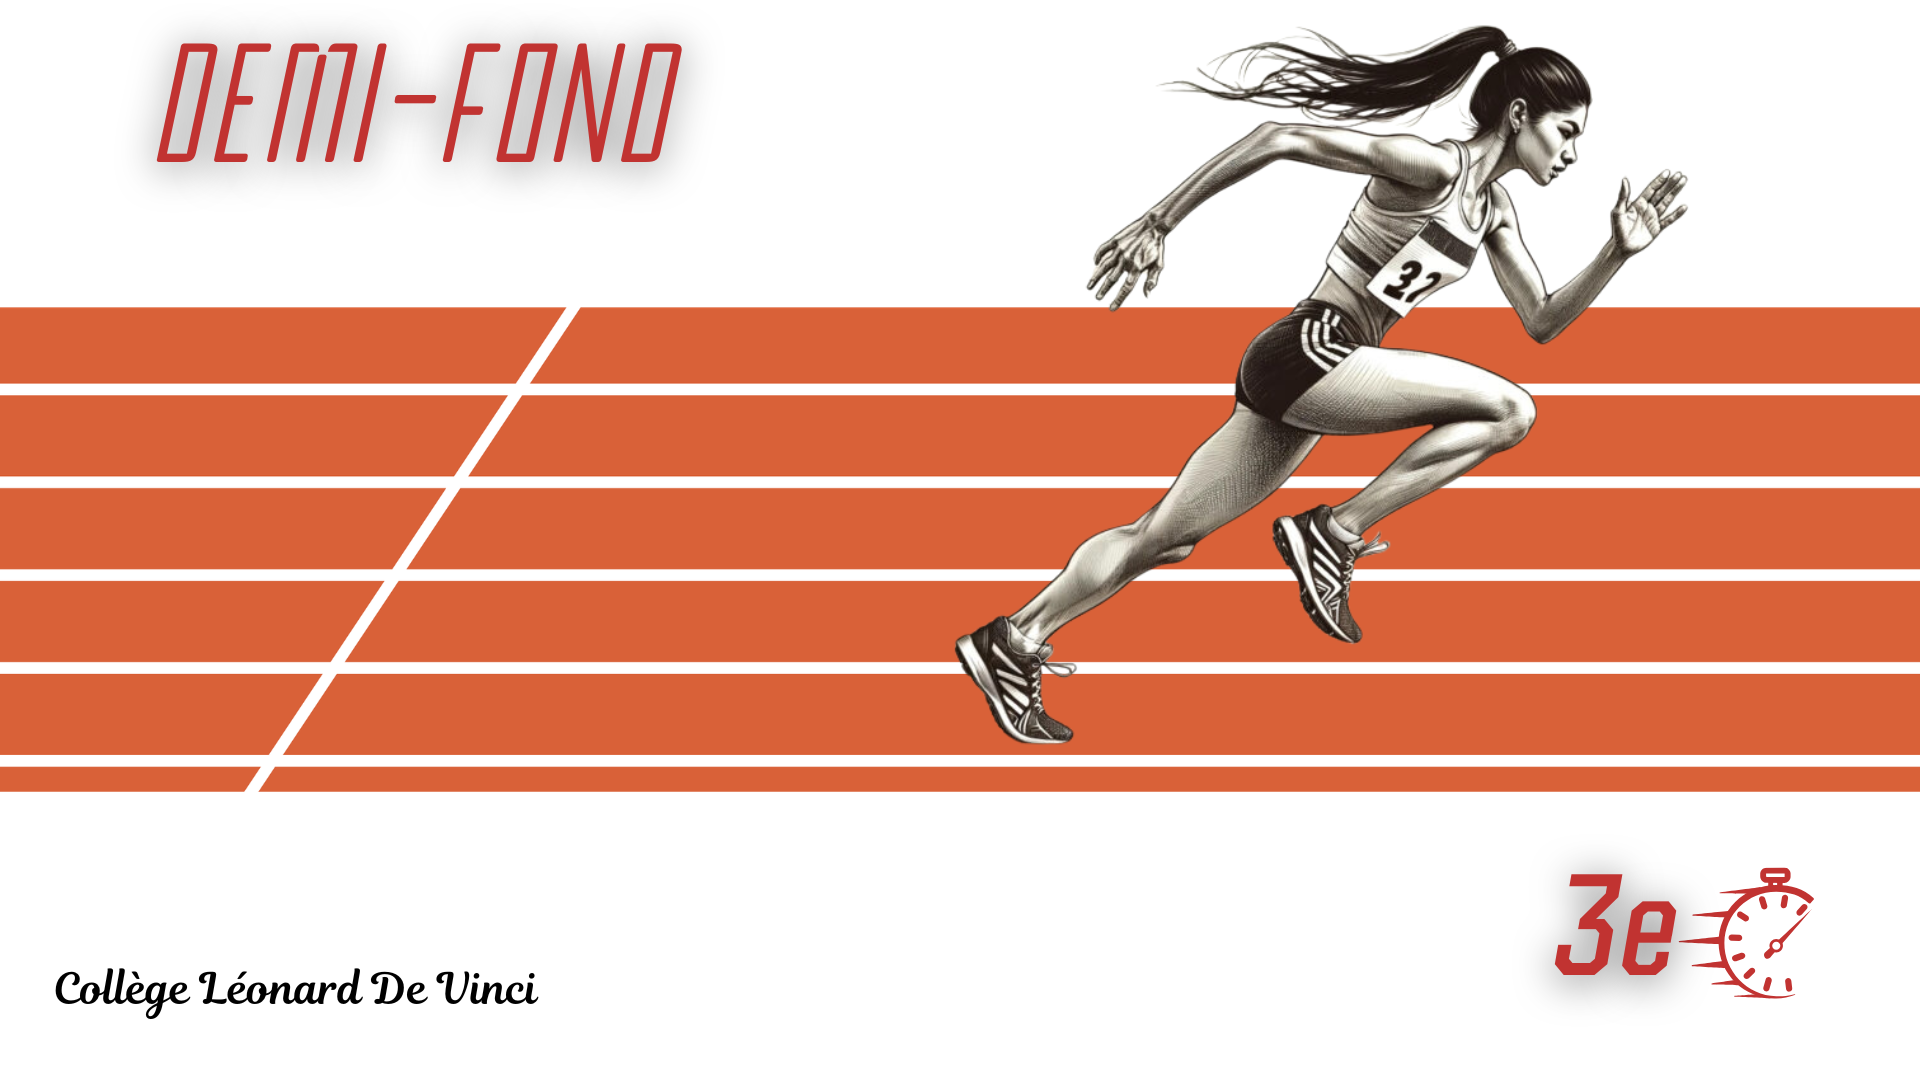
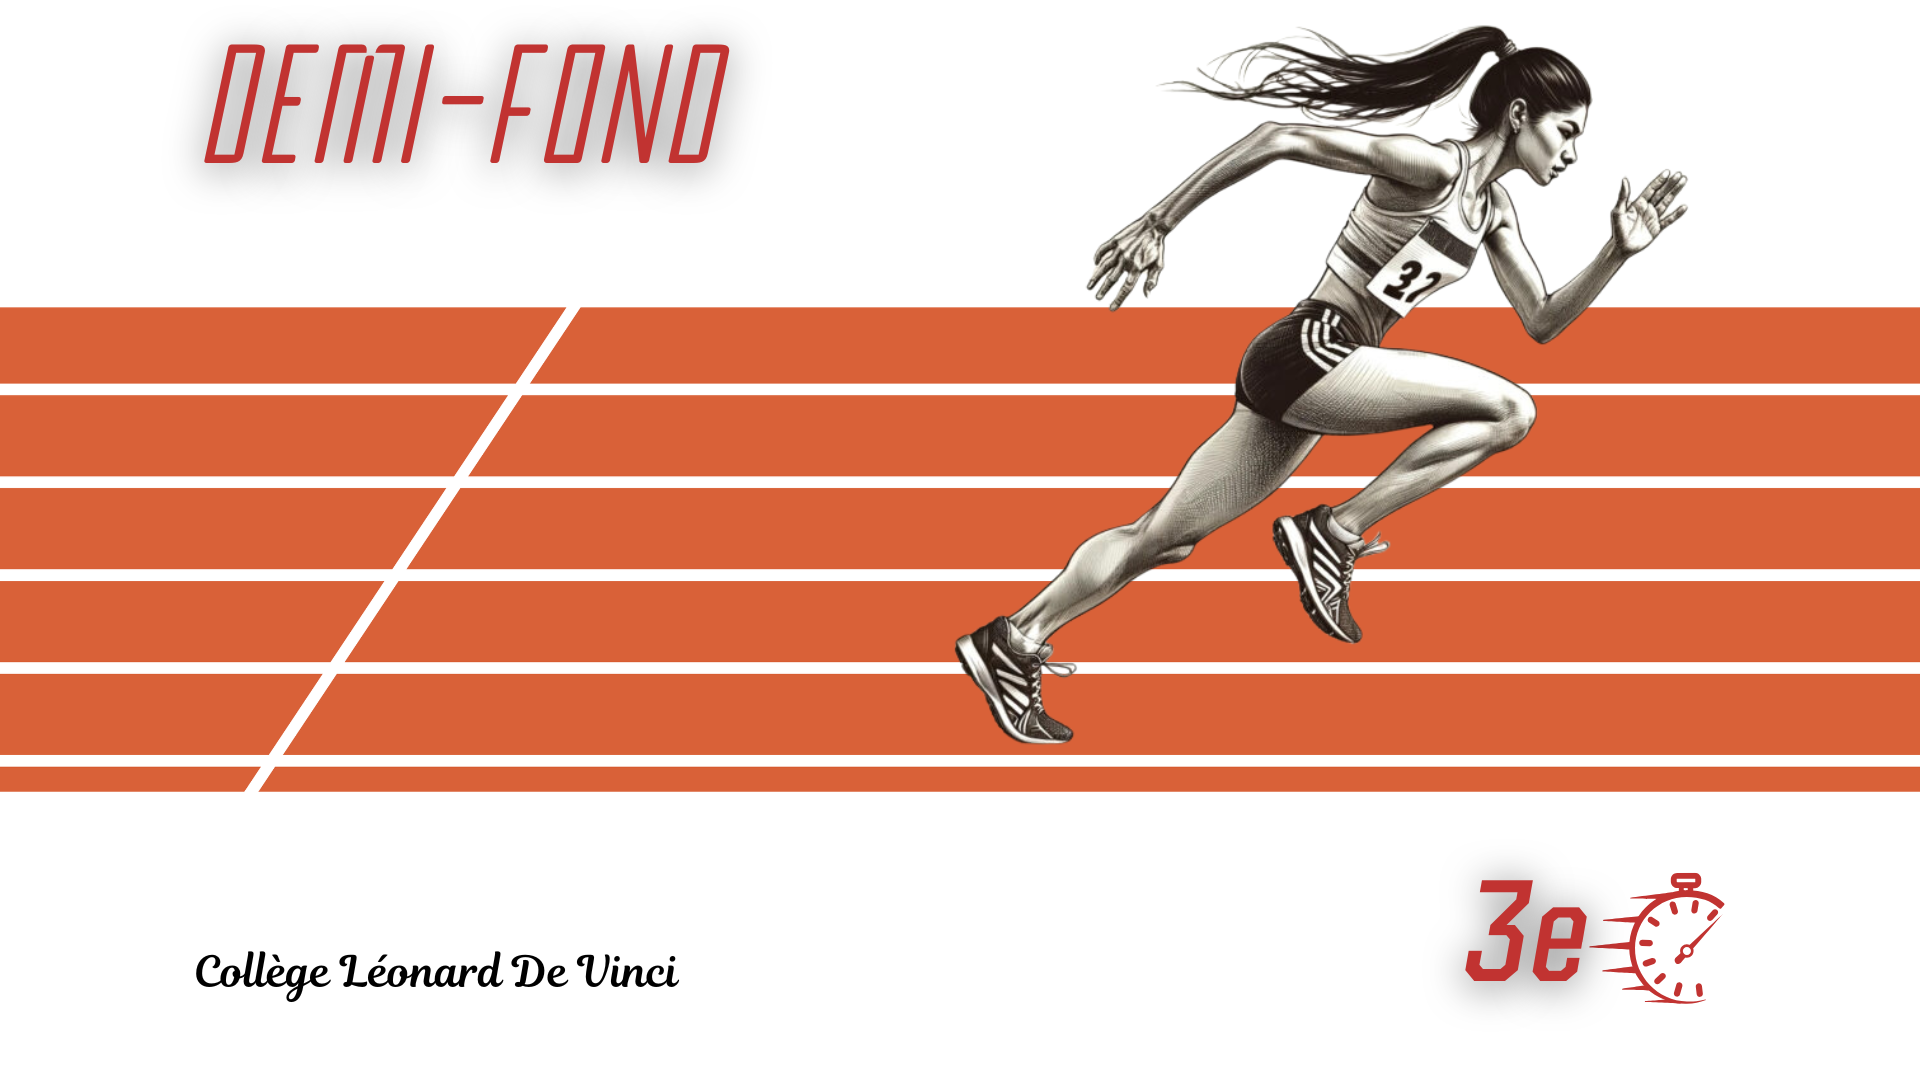
MaJ1.8

Changed region(s): [[0.0625, 0.0306, 0.4062, 0.1528], [0.75, 0.7944, 0.9688, 0.9472], [0.0312, 0.8861, 0.375, 0.9472]]

diff --git a/index.html b/index.html
@@ -8,6 +8,11 @@
     <title>Suivi Demi-Fond</title>
     <meta name="apple-mobile-web-app-capable" content="yes">
     <meta name="apple-mobile-web-app-status-bar-style" content="black-translucent">
+    <meta name="apple-mobile-web-app-title" content="Demi-Fond 3e">
+    <link rel="apple-touch-icon" href="image/icone.png">
+    <link rel="apple-touch-icon" sizes="180x180" href="image/icone.png">
+    <link rel="icon" type="image/png" href="image/icone.png">
+    <link rel="manifest" href="manifest.json">
     <link rel="preconnect" href="https://fonts.googleapis.com">
     <link rel="preconnect" href="https://fonts.gstatic.com" crossorigin>
     <link
@@ -56,12 +61,18 @@
             z-index: -1;
             transition: filter 0.3s ease, transform 0.3s ease;
             pointer-events: none;
+            display: none;
         }
 
         body.bg-blurred #app-bg,
         body:has(.view:not(#view-accueil).active) #app-bg {
             filter: blur(12px) brightness(0.95);
             transform: scale(1.06);
+            display: block;
+        }
+
+        body:has(#view-accueil.active) {
+            background-color: #FFFFFF;
         }
 
         /* Vues de l'application */
@@ -376,88 +387,97 @@
 
         #view-accueil {
             background: transparent;
+            width: 100%;
             min-height: 100vh;
-            margin: -20px;
-            padding: 70px 20px 20px 60px;
-            box-sizing: border-box;
-            overflow-x: hidden;
-            max-width: none;
-        }
-
-        #view-accueil.active {
+            margin: 0;
+            padding: 0;
             display: flex;
-            flex-direction: column;
+            align-items: center;
             justify-content: center;
-            align-items: flex-start;
+            overflow: hidden;
+            max-width: none;
+            position: relative;
         }
 
-        #view-accueil .btn-with-icon {
-            background: rgba(255, 255, 255, 0.72);
+        .home-stage {
+            position: relative;
+            width: 100vw;
+            height: calc(100vw * 9 / 16);
+            max-height: 100vh;
+            max-width: calc(100vh * 16 / 9);
+            aspect-ratio: 16 / 9;
+            background: url('image/fd3.png') no-repeat center center / contain;
+            container-type: size;
+            margin: auto;
+            box-sizing: border-box;
+        }
+
+        #view-accueil .home-btn {
+            position: absolute;
+            width: 27cqw;
+            height: 10.5cqh;
+            padding: 0 2cqw;
+            margin: 0;
+            display: flex;
+            align-items: center;
+            justify-content: center;
+            gap: 1cqw;
+            background: rgba(255, 255, 255, 0.76);
             backdrop-filter: blur(16px);
             -webkit-backdrop-filter: blur(16px);
             color: #000000;
-            border-radius: 18px;
-            padding: 18px 28px;
-            font-size: 18px;
+            border-radius: 1.4cqw;
+            font-size: clamp(11px, 1.32cqw, 19px);
             font-weight: 800;
-            width: 88%;
-            max-width: 410px;
-            margin-bottom: 18px;
-            box-shadow: 0 10px 28px rgba(0, 0, 0, 0.15), inset 0 1px 1px rgba(255, 255, 255, 0.6);
-            border: 1.5px solid rgba(0, 0, 0, 0.25);
+            box-shadow: 0 0.6cqw 1.8cqw rgba(0, 0, 0, 0.15), inset 0 1px 1px rgba(255, 255, 255, 0.6);
+            border: clamp(1px, 0.15cqw, 2px) solid rgba(0, 0, 0, 0.25);
             text-transform: uppercase;
             letter-spacing: 0.5px;
+            white-space: nowrap;
+            cursor: pointer;
             transition: transform 0.2s ease, background-color 0.2s ease, border-color 0.2s ease, box-shadow 0.2s ease;
+            z-index: 10;
         }
 
-        /* Effet escalier montant vers la droite (décalé vers le bas et la droite) */
-        #view-accueil button.btn-with-icon:nth-of-type(1) {
-            transform: translateX(300px);
-            margin-top: 40px;
+        #view-accueil .home-btn .btn-side-img {
+            height: 52%;
+            width: auto;
+            object-fit: contain;
+            filter: drop-shadow(0 2px 4px rgba(0, 0, 0, 0.25));
         }
 
-        #view-accueil button.btn-with-icon:nth-of-type(2) {
-            transform: translateX(220px);
+        #view-accueil .home-btn span {
+            display: inline-block;
+            line-height: 1.1;
         }
 
-        #view-accueil button.btn-with-icon:nth-of-type(3) {
-            transform: translateX(140px);
+        /* Placement escalier le long des couloirs de la piste */
+        #view-accueil .home-btn-1 {
+            top: 36.5cqh;
+            left: 24.5cqw;
         }
 
-        #view-accueil button.btn-with-icon:nth-of-type(4) {
-            transform: translateX(60px);
+        #view-accueil .home-btn-2 {
+            top: 48cqh;
+            left: 19cqw;
         }
 
-        #view-accueil button.btn-with-icon:nth-of-type(1):hover,
-        #view-accueil button.btn-with-icon:nth-of-type(1):active {
-            background: rgba(255, 255, 255, 0.92);
+        #view-accueil .home-btn-3 {
+            top: 59.5cqh;
+            left: 13.5cqw;
+        }
+
+        #view-accueil .home-btn-4 {
+            top: 71cqh;
+            left: 8cqw;
+        }
+
+        #view-accueil .home-btn:hover,
+        #view-accueil .home-btn:active {
+            background: rgba(255, 255, 255, 0.95);
             border-color: rgba(0, 0, 0, 0.45);
-            transform: translateX(300px) scale(1.03);
-            box-shadow: 0 14px 32px rgba(0, 0, 0, 0.25), inset 0 1px 1px rgba(255, 255, 255, 0.8);
-        }
-
-        #view-accueil button.btn-with-icon:nth-of-type(2):hover,
-        #view-accueil button.btn-with-icon:nth-of-type(2):active {
-            background: rgba(255, 255, 255, 0.92);
-            border-color: rgba(0, 0, 0, 0.45);
-            transform: translateX(220px) scale(1.03);
-            box-shadow: 0 14px 32px rgba(0, 0, 0, 0.25), inset 0 1px 1px rgba(255, 255, 255, 0.8);
-        }
-
-        #view-accueil button.btn-with-icon:nth-of-type(3):hover,
-        #view-accueil button.btn-with-icon:nth-of-type(3):active {
-            background: rgba(255, 255, 255, 0.92);
-            border-color: rgba(0, 0, 0, 0.45);
-            transform: translateX(140px) scale(1.03);
-            box-shadow: 0 14px 32px rgba(0, 0, 0, 0.25), inset 0 1px 1px rgba(255, 255, 255, 0.8);
-        }
-
-        #view-accueil button.btn-with-icon:nth-of-type(4):hover,
-        #view-accueil button.btn-with-icon:nth-of-type(4):active {
-            background: rgba(255, 255, 255, 0.92);
-            border-color: rgba(0, 0, 0, 0.45);
-            transform: translateX(60px) scale(1.03);
-            box-shadow: 0 14px 32px rgba(0, 0, 0, 0.25), inset 0 1px 1px rgba(255, 255, 255, 0.8);
+            transform: scale(1.03);
+            box-shadow: 0 0.8cqw 2.2cqw rgba(0, 0, 0, 0.25), inset 0 1px 1px rgba(255, 255, 255, 0.8);
         }
 
         /* Page Infos Coureurs Layout */
@@ -595,13 +615,13 @@
 
         .btn-reset-app {
             position: absolute !important;
-            top: 24px !important;
-            right: 28px !important;
+            top: 3.5cqh !important;
+            right: 2.5cqw !important;
             width: auto !important;
             max-width: none !important;
             margin: 0 !important;
-            padding: 5px 12px !important;
-            font-size: 11px !important;
+            padding: 0.6cqh 1.2cqw !important;
+            font-size: clamp(10px, 1.05cqw, 14px) !important;
             font-weight: 800 !important;
             text-transform: none !important;
             letter-spacing: normal !important;
@@ -610,7 +630,7 @@
             border: 1.5px solid rgba(220, 38, 38, 0.45) !important;
             backdrop-filter: blur(8px);
             -webkit-backdrop-filter: blur(8px);
-            border-radius: 12px !important;
+            border-radius: 0.9cqw !important;
             cursor: pointer;
             box-shadow: 0 4px 12px rgba(220, 38, 38, 0.25) !important;
             transform: none !important;
@@ -629,24 +649,27 @@
 
         /* Conteneur des boutons Sauvegarder / Charger sur l'accueil */
         .home-io-row {
+            position: absolute;
+            top: 77.5cqh;
+            left: 4.5cqw;
+            width: 22cqw;
+            height: 7.5cqh;
             display: flex;
-            gap: 10px;
+            gap: 0.8cqw;
             justify-content: flex-start;
             align-items: center;
-            margin-top: 5px;
-            margin-left: 25px;
-            margin-right: auto;
-            width: 100%;
-            max-width: 300px;
+            margin: 0;
+            z-index: 10;
         }
 
         .btn-io-app {
             flex: 1;
-            padding: 6px 12px;
-            font-size: 12px;
+            height: 100%;
+            padding: 0 0.8cqw;
+            font-size: clamp(9px, 0.95cqw, 13px);
             font-weight: 800;
             text-align: center;
-            border-radius: 10px;
+            border-radius: 0.9cqw;
             cursor: pointer;
             backdrop-filter: blur(8px);
             -webkit-backdrop-filter: blur(8px);
@@ -654,8 +677,9 @@
             display: flex;
             align-items: center;
             justify-content: center;
-            gap: 5px;
+            gap: 0.4cqw;
             user-select: none;
+            white-space: nowrap;
         }
 
         .btn-export-app {
@@ -1767,41 +1791,43 @@
     <div id="app-bg"></div>
 
     <!-- VUE : ACCUEIL -->
-    <div id="view-accueil" class="view active" style="position: relative;">
-        <!-- Bouton réinitialiser ultra-discret tout en haut à droite -->
-        <div onclick="confirmResetData()" class="btn-reset-app" role="button" tabindex="0"
-            title="Réinitialiser l'application (remettre à 0)">
-            🔄 Remettre à 0
-        </div>
-
-        <button class="primary btn-with-icon" onclick="openModal('modal-coureur', 1)">
-            <img src="image/fiche1.png" alt="Inscription" class="btn-side-img">
-            <span>S'inscrire</span>
-        </button>
-        <button class="primary btn-with-icon" onclick="nav('view-infos')">
-            <img src="image/logofiche.png" alt="Fiches coureurs" class="btn-side-img">
-            <span>Fiches coureurs</span>
-        </button>
-        <button class="primary btn-with-icon" onclick="nav('view-session-config')">
-            <img src="image/tableau.png" alt="Séance" class="btn-side-img">
-            <span>Commencer une séance</span>
-        </button>
-        <button class="primary btn-with-icon" onclick="nav('view-eval')">
-            <img src="image/eval.png" alt="Évaluation" class="btn-side-img">
-            <span>Évaluation</span>
-        </button>
-
-        <!-- Boutons d'import/export côte à côte sous le bouton Évaluation -->
-        <div class="home-io-row">
-            <div onclick="exportAppDataJSON()" class="btn-io-app btn-export-app" role="button" tabindex="0"
-                title="Exporter toutes les données en fichier JSON">
-                💾 Sauvegarder
+    <div id="view-accueil" class="view active">
+        <div class="home-stage">
+            <!-- Bouton réinitialiser ultra-discret tout en haut à droite -->
+            <div onclick="confirmResetData()" class="btn-reset-app" role="button" tabindex="0"
+                title="Réinitialiser l'application (remettre à 0)">
+                🔄 Remettre à 0
             </div>
-            <input type="file" id="import-json-input" accept=".json" style="display:none;"
-                onchange="importAppDataJSON(event)">
-            <div onclick="document.getElementById('import-json-input').click()" class="btn-io-app btn-import-app"
-                role="button" tabindex="0" title="Charger un fichier JSON de données">
-                📂 Charger
+
+            <button class="primary btn-with-icon home-btn home-btn-1" onclick="openModal('modal-coureur', 1)">
+                <img src="image/fiche1.png" alt="Inscription" class="btn-side-img">
+                <span>S'inscrire</span>
+            </button>
+            <button class="primary btn-with-icon home-btn home-btn-2" onclick="nav('view-infos')">
+                <img src="image/logofiche.png" alt="Fiches coureurs" class="btn-side-img">
+                <span>Fiches coureurs</span>
+            </button>
+            <button class="primary btn-with-icon home-btn home-btn-3" onclick="nav('view-session-config')">
+                <img src="image/tableau.png" alt="Séance" class="btn-side-img">
+                <span>Commencer une séance</span>
+            </button>
+            <button class="primary btn-with-icon home-btn home-btn-4" onclick="nav('view-eval')">
+                <img src="image/eval.png" alt="Évaluation" class="btn-side-img">
+                <span>Évaluation</span>
+            </button>
+
+            <!-- Boutons d'import/export côte à côte sous le bouton Évaluation -->
+            <div class="home-io-row">
+                <div onclick="exportAppDataJSON()" class="btn-io-app btn-export-app" role="button" tabindex="0"
+                    title="Exporter toutes les données en fichier JSON">
+                    💾 Sauvegarder
+                </div>
+                <input type="file" id="import-json-input" accept=".json" style="display:none;"
+                    onchange="importAppDataJSON(event)">
+                <div onclick="document.getElementById('import-json-input').click()" class="btn-io-app btn-import-app"
+                    role="button" tabindex="0" title="Charger un fichier JSON de données">
+                    📂 Charger
+                </div>
             </div>
         </div>
     </div>
